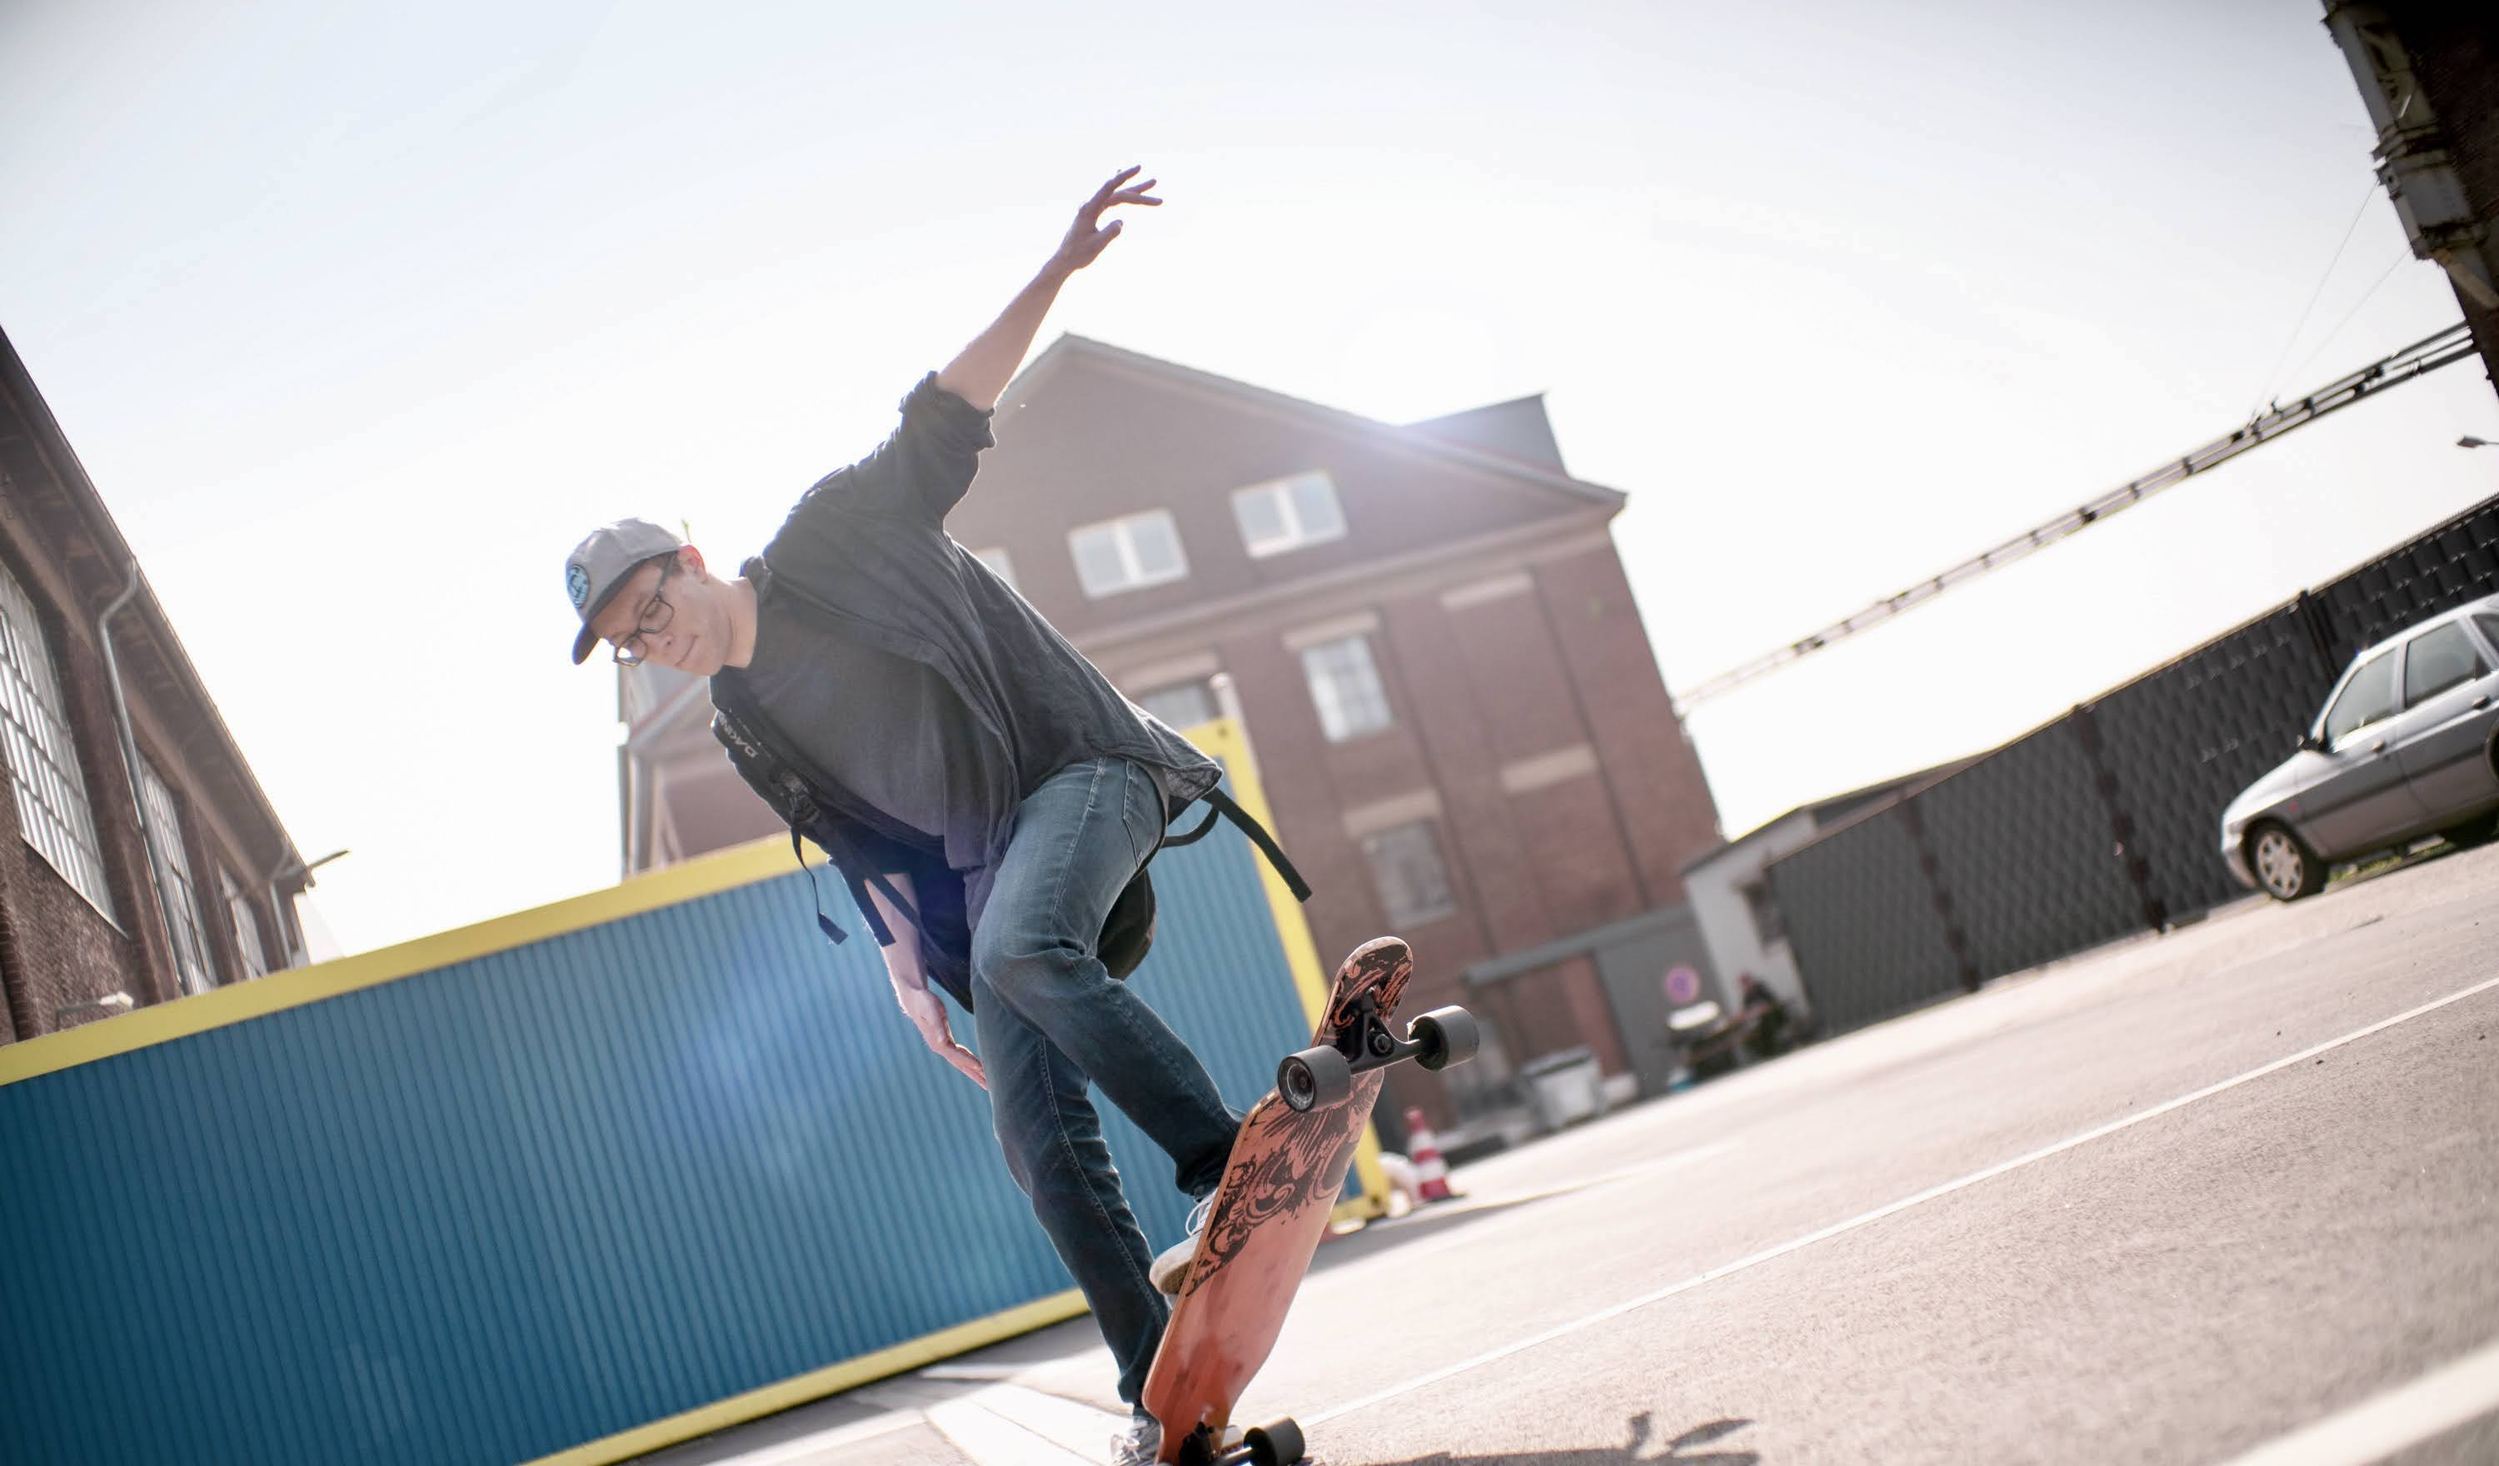
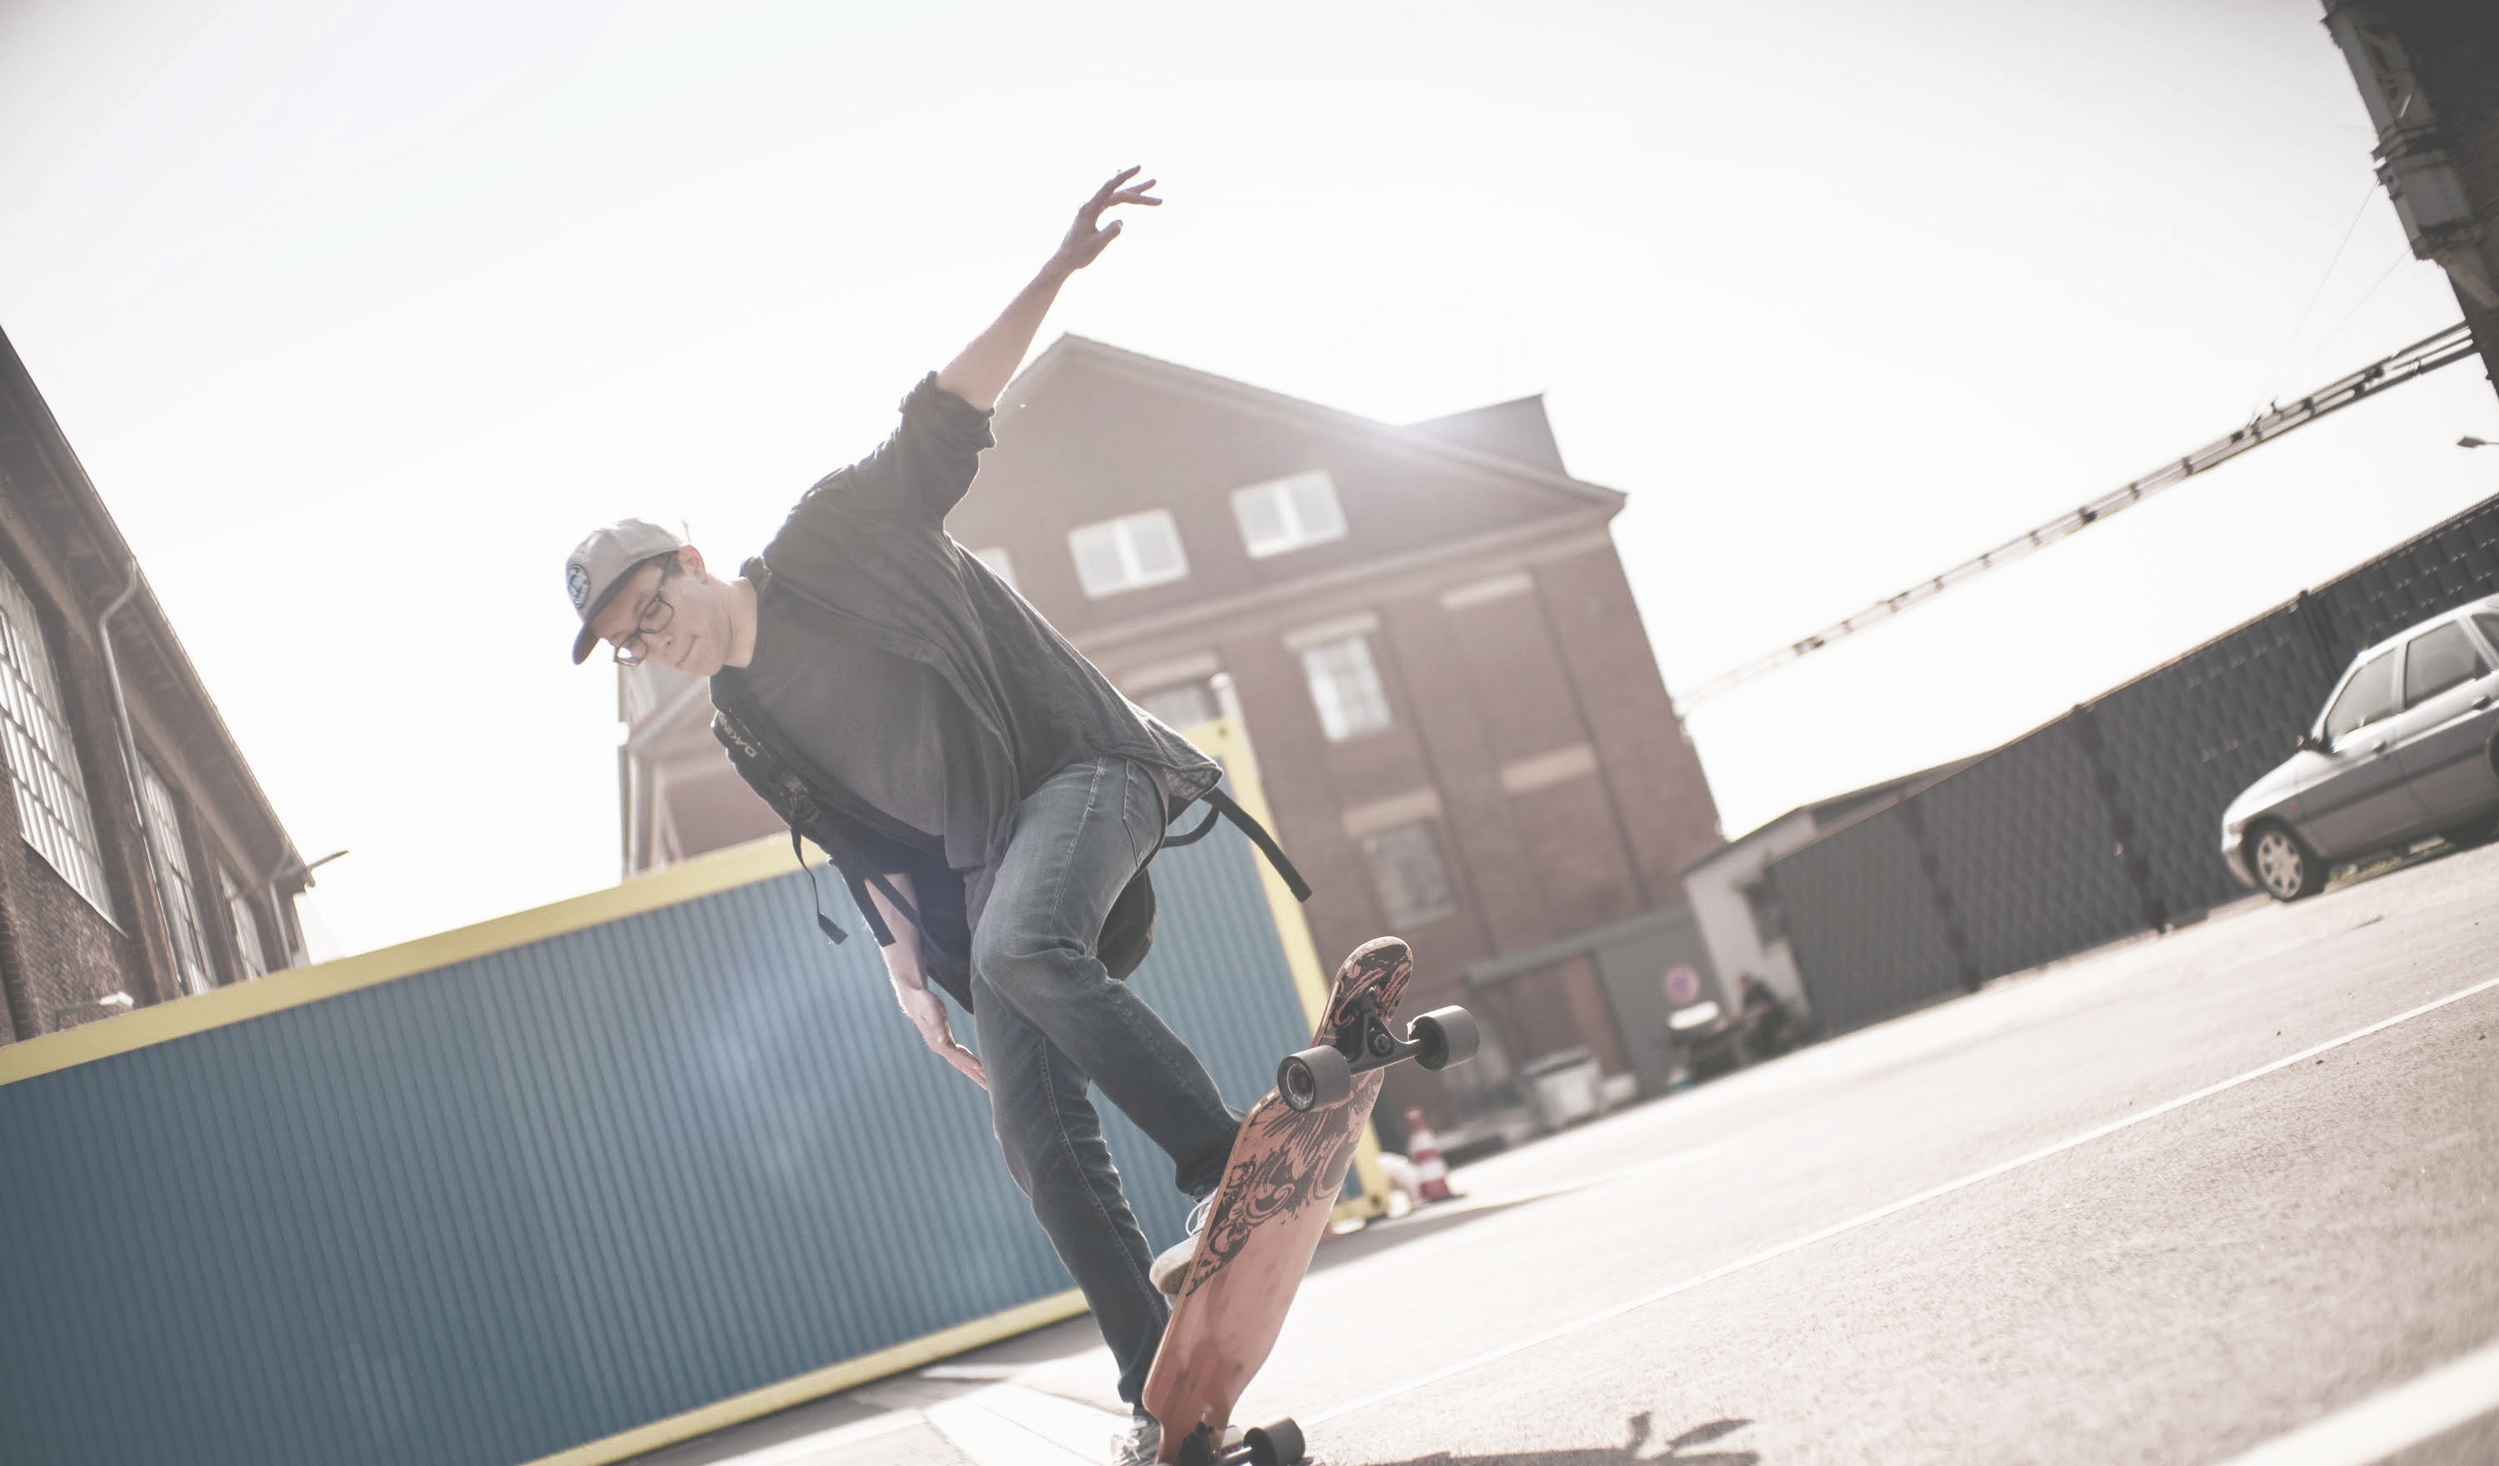
design

diff --git a/src/styles/index.scss b/src/styles/index.scss
@@ -46,7 +46,7 @@ h5 {
     background-repeat: no-repeat;
     background-size: cover;
     border-radius: 0 0 16px 0;
-    filter: opacity(0.3) grayscale(0.2);
+    // filter: opacity(0.3) grayscale(0.2);
     width: 65vw;
 }
 .hero-motto {
@@ -109,8 +109,10 @@ h5 {
     }
 }
 .links-container {
+    align-items: center;
     display: flex;
     justify-content: space-between;
+    height: 96px;
     width: 65vw;
 }
 .links-group {
@@ -141,8 +143,8 @@ h5 {
     background-position: center;
     background-repeat: no-repeat;
     background-size: cover;
-    filter: opacity(0.1) grayscale(0.6);
-    height: 180px;
+    // filter: opacity(0.1) grayscale(0.6);
+    height: 192px;
     width: 100%;
 }
 .portfolio-item {
